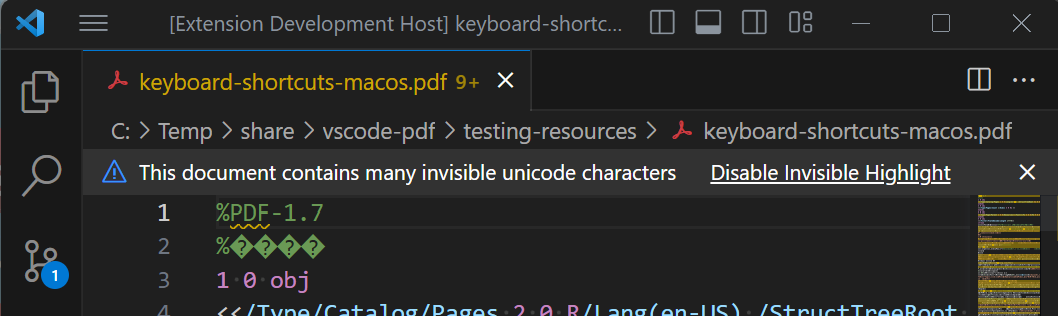
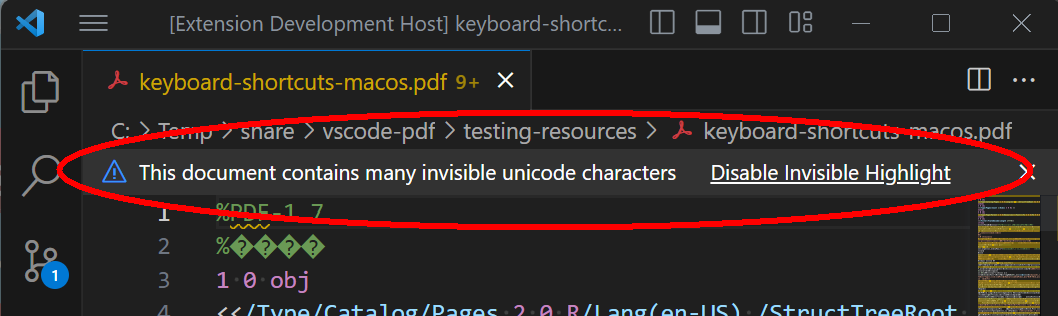
Updated doco + screenshot

diff --git a/README.md b/README.md
@@ -40,15 +40,18 @@ It also includes an End-to-End test.
 
 Technically all PDF files are **binary files** and should **never** be arbitrarily edited in text-based editors such as VSCode - as this can break them! However, for the purposes of learning PDF or manually writing targeted PDF test files, it is possible to use a text editor if sufficient care is taken. The functionality provided by this extension is **NOT** intended for debugging or analysis of real-world PDF files as such files are "too binary" for text editors such as VSCode. Use a proper PDF forensic inspection utility or a dedicated hex editor. 
 
-If you see either of these messages in VSCode then your PDF file is unsuitable for editing with this extension and will get corrupted if saved:
+If you see either of these messages in VSCode then your PDF file is unsuitable for editing with this extension and _**will get corrupted if saved!**_:
 
 ![VSCode binary file error](assets/VSCode-BinaryError.png)
 
 ![VSCode invisible Unicode warning](assets/VSCode-InvisibleUnicode.png)
 
-## Features
+# Features
 
-Syntax highlighting of PDF COS ("Carousel Object System”") synax and PDF content streams including special handling of PDF rules for delimiters and whitespace:
+The following functionality is enabled for files with extensions `.pdf` and `.fdf` (Forms Data Field) as both file formats use the same PDF COS ("_Carousel Object System_") syntax and file structure.
+
+## Syntax Highlighting
+Syntax highlighting of PDF COS syntax and PDF content streams including special handling of PDF rules for delimiters and whitespace:
 - PDF dictionary objects (start `<<` and end `>>`)
 - PDF array objects (start `[` and end `]`)
 - PDF literal string objects (start `(` and end `)` with `\` escape sequences) 
@@ -56,28 +59,46 @@ Syntax highlighting of PDF COS ("Carousel Object System”") synax and PDF conte
 - PDF name objects (start `/` with `#` hex pairs)
 - PDF integer and real number objects (including with leading `+`, `-`, `.` or multiple `0`s)
 - PDF comments (start with `%` to end-of-line)
-- all case sensitive PDF keywords (`endobj`, `endstream`, `false`, `null`, `obj` including associated object identifier, `R` including associated object identifier, `startxref`, `stream`,  `trailer`, `true`, `xref`)
-- PDF content stream operators when occuring between `steram` and `endstream` keywords
+- all case-sensitive PDF keywords (`endobj`, `endstream`, `false`, `null`, `obj` including associated object identifier, `R` including associated object identifier, `startxref`, `stream`,  `trailer`, `true`, `xref`)
+- PDF content stream operators when occuring between `stream` and `endstream` keywords
 
-Functionality is enabled for files with extensions `.pdf` and `.fdf` (Forms Data Field) as both file formats use the same PDF COS syntax.
+## Folding
+Folding is enabled for PDF objects (`X Y obj` and `endobj`) and multi-line PDF dictionary objects (`<<` and `>>`).
 
-Folding is enabled for PDF objects (`obj` and `endobj`) and multi-line PDF dictionary objects (`<<` and `>>`).
-- Windows folding shortcuts:
-    - `CTRL` + `SHIFT` + `[` = fold region
-    - `CTRL` + `SHIFT` + `]` = unfold region
-    - `CTRL` + `K`, `CTRL` + `[` = fold all subregions
-    - `CTRL` + `K`, `CTRL` + `]` = unfold all subregions
-    - `CTRL` + `K`, `CTRL` + `0` = fold all regions
-    - `CTRL` + `K`, `CTRL` + `J` = unfold all regions
-- Mac folding shortcuts:
-    - &#8984; `[` = fold region
-    - &#8984; `]` = unfold region
-    - &#8984; `K`, &#8984; `[` = fold all subregions
-    - &#8984; `K`, &#8984; `]` = unfold all subregions
-    - &#8984; `K`, &#8984; `0` = fold all regions
-    - &#8984; `K`, &#8984; `J` = unfold all regions
+### Windows folding shortcuts:
+- `CTRL` + `SHIFT` + `[` = fold region
+- `CTRL` + `SHIFT` + `]` = unfold region
+- `CTRL` + `K`, `CTRL` + `[` = fold all subregions
+- `CTRL` + `K`, `CTRL` + `]` = unfold all subregions
+- `CTRL` + `K`, `CTRL` + `0` = fold all regions
+- `CTRL` + `K`, `CTRL` + `J` = unfold all regions
+### Mac folding shortcuts:
+- &#8984; `[` = fold region
+- &#8984; `]` = unfold region
+- &#8984; `K`, &#8984; `[` = fold all subregions
+- &#8984; `K`, &#8984; `]` = unfold all subregions
+- &#8984; `K`, &#8984; `0` = fold all regions
+- &#8984; `K`, &#8984; `J` = unfold all regions
 
-## Creation of largely text-based PDFs
+## GoTo Functionality
+VSCode allows easy navigation and examination of definitions, declarations and references. For PDF the following equivalences are used:
+- "definition": a PDF object (`X Y obj`)
+- "declaration": the cross-reference table entry of a PDF object
+- "reference": an indirect references (`X Y R`) to a PDF object
+
+### Windows GoTo shortcuts
+- `F12` = goto definition
+- `ALT` + `F12` = peek definition
+- `CTRL` + `K`, `F12` = open definition to the side
+- `SHIFT` + `F12` = show references
+### Mac GoTo shortcuts
+- `F12` = goto definition
+- &#8997; `F12` = peek definition
+- &#8984; `K`, `F12` = open definition to the side
+- &#8679;  `F12` = show references
+
+
+# Creation of largely text-based PDFs
 
 Using [QPDF](https://github.com/qpdf/qpdf):
 ```bash
